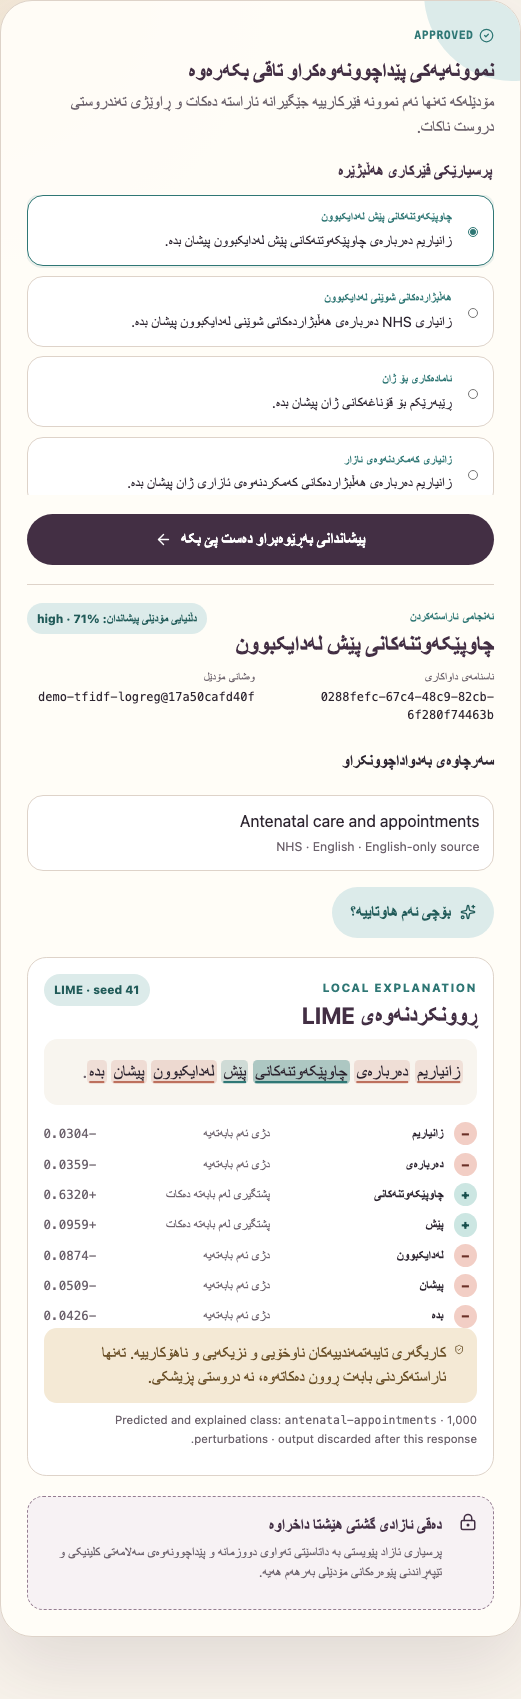
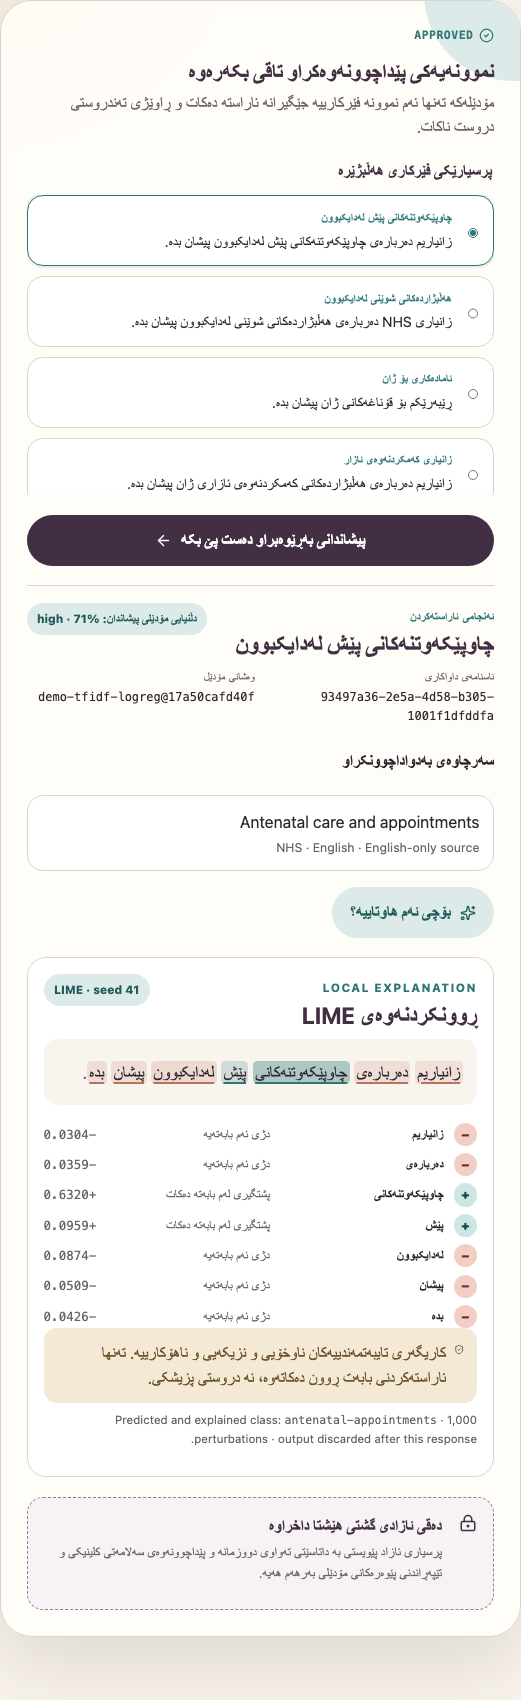
Clarify the Sorani translation boundary

diff --git a/app/resources/js/pages/Navigator.tsx b/app/resources/js/pages/Navigator.tsx
@@ -83,14 +83,22 @@ function AppHeader({ locale, setLocale }: { locale: Locale; setLocale: (value: L
         <header className="site-header"><div className="container nav-row">
             <a className="brand" href="/"><span className="brand-mark"><Route size={19} /></span><span>Explainable Maternity Information Router</span></a>
             <nav className="nav-links" aria-label="Primary navigation">{navigation.map(([href, key]) =>
-                <a className="nav-link" aria-current={path === href ? 'page' : undefined} href={href} key={href}>{copy.nav[key]}</a>,
-            )}<a className="nav-link" href={repo} target="_blank" rel="noreferrer"><GitBranch size={14} />GitHub</a></nav>
+                <a className="nav-link" aria-current={path === href ? 'page' : undefined} href={href} key={href}>{copy.nav[key]}{locale === 'ckb' && href === '/api-docs' ? <span className="language-label">English</span> : null}</a>,
+            )}<a className="nav-link" href={repo} target="_blank" rel="noreferrer"><GitBranch size={14} />GitHub{locale === 'ckb' ? <span className="language-label">English</span> : null}</a></nav>
             <label className="sr-only" htmlFor="language">Interface language</label>
             <select id="language" className="language-select" value={locale} onChange={event => setLocale(event.target.value as Locale)}>
                 <option value="en">English</option><option value="ckb">کوردی سۆرانی</option>
             </select>
         </div></header>
     </>;
+}
+
+function LanguageCoverageNotice({ locale }: { locale: Locale }) {
+    if (locale !== 'ckb') return null;
+    return <div className="container language-coverage" role="note" lang="en" dir="ltr">
+        <Languages size={18} aria-hidden="true" />
+        <div><strong>Sorani language coverage</strong><p>The reviewed demo journey and questions are available in Sorani. The API playground, GitHub repository, Privacy and Accessibility pages, technical identifiers, and external source titles remain in English.</p></div>
+    </div>;
 }
 
 function ExplanationView({ explanation, locale }: { explanation: Explanation; locale: Locale }) {
@@ -206,7 +214,7 @@ function Sources({ locale }: { locale: Locale }) {
     const [sources, setSources] = useState<Source[]>([]);
     const category = new URLSearchParams(window.location.search).get('category');
     useEffect(() => { jsonRequest(`/api/v1/resources?locale=${locale}${category ? `&category=${encodeURIComponent(category)}` : ''}`).then(({ body }) => setSources(body.data ?? [])); }, [category, locale]);
-    return <main className="container"><div className="page-hero"><span className="eyebrow"><BookOpen size={15} />Provenance first</span><h1>Registered source directory</h1><p>Links, language, use status and verification dates are shown without reproducing clinical prose or implying unavailable translations.</p></div><div className="source-grid">{sources.map(source => <article className="source-card" key={source.id}><span className="org">{source.organisation}</span><h3>{source.title}</h3><div className="source-meta"><span className="tag">{source.language}</span>{source.reuse_status && <span className="tag">{source.reuse_status.replaceAll('_', ' ')}</span>}<span className="tag">Checked {source.last_verified}</span></div>{source.fallback_used && <p className="availability-note">{source.availability_note}</p>}<a className="source-link" href={source.url} target="_blank" rel="noreferrer">Open original <ExternalLink size={13} /></a></article>)}</div></main>;
+    return <main className="container" lang="en" dir="ltr"><div className="page-hero"><span className="eyebrow"><BookOpen size={15} />Provenance first</span><h1>Registered source directory</h1><p>Links, language, use status and verification dates are shown without reproducing clinical prose or implying unavailable translations.</p></div><div className="source-grid">{sources.map(source => <article className="source-card" key={source.id}><span className="org">{source.organisation}</span><h3>{source.title}</h3><div className="source-meta"><span className="tag">{source.language}</span>{source.reuse_status && <span className="tag">{source.reuse_status.replaceAll('_', ' ')}</span>}<span className="tag">Checked {source.last_verified}</span></div>{source.fallback_used && <p className="availability-note">{source.availability_note}</p>}<a className="source-link" href={source.url} target="_blank" rel="noreferrer">Open original <ExternalLink size={13} /></a></article>)}</div></main>;
 }
 
 function Evidence() {
@@ -218,7 +226,7 @@ function Evidence() {
         ['MySQL migration', 'app/database/migrations/2026_08_11_000002_add_curated_demo_tables.php'],
         ['Governance validator', 'scripts/validate_resources.py'],
     ];
-    return <main className="container"><div className="page-hero"><span className="eyebrow"><FileCheck2 size={15} />Evidence before claims</span><h1>Technical and governance evidence</h1><p>The curated route demonstrates the architecture. It does not establish general model accuracy, clinical validity or approval.</p></div>
+    return <main className="container" lang="en" dir="ltr"><div className="page-hero"><span className="eyebrow"><FileCheck2 size={15} />Evidence before claims</span><h1>Technical and governance evidence</h1><p>The curated route demonstrates the architecture. It does not establish general model accuracy, clinical validity or approval.</p></div>
         <div className="evidence-grid"><div className="evidence-card"><div className="metric">144</div><div className="metric-label">Checksum-approved demo samples</div></div><div className="evidence-card"><div className="metric">12 + 12</div><div className="metric-label">Passing visible + hidden fixtures</div></div><div className="evidence-card"><div className="metric">&lt;0.1s</div><div className="metric-label">Local-container LIME p95</div></div></div>
         <section className="section two-column"><div className="content-card"><h2>What fixture checks prove</h2><p>All fixed visible and hidden examples return their reviewed category. The local single-user container check measured classification p95 at 3.7 ms and LIME p95 at 84 ms across repeated calls.</p><p className="notice">These are release-fixture and local engineering measurements, not macro-F1, calibration, clinical validity or maternity-domain performance.</p></div><div className="locked-panel"><h3><LockKeyhole size={19} />Production route still locked</h3><p>The 600-row bilingual training set, 120 evaluation fixtures, independent clinical-safety review and XLM-R comparison remain follow-on gates.</p></div></section>
         <section className="section"><div className="section-heading"><div><span className="eyebrow">Inspect the implementation</span><h2>Evidence linked to code</h2></div></div><div className="source-grid">{links.map(([label, path]) => <a className="evidence-code-link" href={`${repo}/blob/main/${path}`} target="_blank" rel="noreferrer" key={path}><Code2 size={18} /><span><strong>{label}</strong><code>{path}</code></span><ExternalLink size={15} /></a>)}</div></section>
@@ -234,7 +242,7 @@ function Evidence() {
 }
 
 function HowItWorks() {
-    return <main className="container"><div className="page-hero"><span className="eyebrow"><Network size={15} />Bounded by design</span><h1>Follow one request end to end</h1><p>The curated and production registries are deliberately separate: a portfolio fixture can never unlock public free text.</p></div><div className="flow-strip"><div><span>1</span><strong>React sends sample ID</strong><p>No browser-supplied question enters the demo contract.</p></div><ArrowRight /><div><span>2</span><strong>Laravel retrieves approved text</strong><p>MySQL provides category, locale and source provenance.</p></div><ArrowRight /><div><span>3</span><strong>FastAPI routes</strong><p>The private curated registry verifies mode and artifact checksum.</p></div><ArrowRight /><div><span>4</span><strong>LIME explains</strong><p>Predicted-class weights return through PHP and are discarded.</p></div></div><section className="section"><div className="two-column"><div className="content-card"><h2>Persisted</h2><ul><li>Random request ID and curated-demo mode</li><li>Governed sample, category and model references</li><li>Confidence band and latency</li></ul></div><div className="content-card"><h2>Never persisted</h2><ul><li>Arbitrary user maternity text</li><li>LIME tokens or occurrence spans</li><li>Clinical symptoms or personal data</li><li>Free-text feedback</li></ul></div></div></section></main>;
+    return <main className="container" lang="en" dir="ltr"><div className="page-hero"><span className="eyebrow"><Network size={15} />Bounded by design</span><h1>Follow one request end to end</h1><p>The curated and production registries are deliberately separate: a portfolio fixture can never unlock public free text.</p></div><div className="flow-strip"><div><span>1</span><strong>React sends sample ID</strong><p>No browser-supplied question enters the demo contract.</p></div><ArrowRight /><div><span>2</span><strong>Laravel retrieves approved text</strong><p>MySQL provides category, locale and source provenance.</p></div><ArrowRight /><div><span>3</span><strong>FastAPI routes</strong><p>The private curated registry verifies mode and artifact checksum.</p></div><ArrowRight /><div><span>4</span><strong>LIME explains</strong><p>Predicted-class weights return through PHP and are discarded.</p></div></div><section className="section"><div className="two-column"><div className="content-card"><h2>Persisted</h2><ul><li>Random request ID and curated-demo mode</li><li>Governed sample, category and model references</li><li>Confidence band and latency</li></ul></div><div className="content-card"><h2>Never persisted</h2><ul><li>Arbitrary user maternity text</li><li>LIME tokens or occurrence spans</li><li>Clinical symptoms or personal data</li><li>Free-text feedback</li></ul></div></div></section></main>;
 }
 
 const graphQueries = {
@@ -276,7 +284,7 @@ function ApiDocs() {
     };
     const copySnippet = async () => { await navigator.clipboard.writeText(snippets[snippet]); setCopied(true); setTimeout(() => setCopied(false), 1200); };
 
-    return <main className="container"><div className="page-hero"><span className="eyebrow"><Braces size={15} />Live engineering exhibit</span><h1>Execute REST and GraphQL here</h1><p>Every control below calls the running application. Inspect the request, status, timing and formatted response without installing an API client.</p></div>
+    return <main className="container" lang="en" dir="ltr"><div className="page-hero"><span className="eyebrow"><Braces size={15} />Live engineering exhibit</span><h1>Execute REST and GraphQL here</h1><p>Every control below calls the running application. Inspect the request, status, timing and formatted response without installing an API client.</p></div>
         <div className="api-layout"><aside className="api-controls"><h2>REST</h2>{[
             ['health', 'GET', '/api/v1/health', undefined],
             ['resources', 'GET', '/api/v1/resources?category=antenatal-appointments&locale=ckb', undefined],
@@ -293,11 +301,12 @@ function ApiDocs() {
 
 function PolicyPage({ type }: { type: 'privacy' | 'accessibility' }) {
     const privacy = type === 'privacy';
-    return <main className="container"><div className="page-hero"><span className="eyebrow">{privacy ? <ShieldCheck size={15} /> : <HeartHandshake size={15} />}{privacy ? 'Data minimisation' : 'Inclusive by default'}</span><h1>{privacy ? 'Privacy and intended use' : 'Accessibility statement'}</h1><p>{privacy ? 'The fixed demo stores only derived telemetry and a reference to governed application content.' : 'The interface targets WCAG 2.2 AA and includes explicit testing for RTL and bidirectional text.'}</p></div><div className="two-column">{privacy ? <><div className="content-card"><h2>What may be stored</h2><ul><li>Random request ID and curated-demo mode</li><li>Governed sample, category and model references</li><li>Confidence band, locale and latency</li><li>Fixed-choice helpfulness feedback</li></ul></div><div className="content-card"><h2>What is not stored</h2><ul><li>Arbitrary user questions or LIME tokens</li><li>Names, contact details or symptoms</li><li>Patient records or special-category datasets</li><li>Free-text feedback</li></ul></div></> : <><div className="content-card"><h2>Implemented</h2><ul><li>Keyboard-visible focus and semantic controls</li><li>Reduced-motion support and responsive zoom</li><li>Text plus symbols for LIME direction</li><li>Full-page RTL and original-order Sorani spans</li></ul></div><div className="content-card"><h2>Release gate</h2><p>Automated checks are not certification. Manual keyboard, zoom, contrast, screen-reader and Sorani bidirectional-text checks are required before public indexing.</p></div></>}</div></main>;
+    return <main className="container" lang="en" dir="ltr"><div className="page-hero"><span className="eyebrow">{privacy ? <ShieldCheck size={15} /> : <HeartHandshake size={15} />}{privacy ? 'Data minimisation' : 'Inclusive by default'}</span><h1>{privacy ? 'Privacy and intended use' : 'Accessibility statement'}</h1><p>{privacy ? 'The fixed demo stores only derived telemetry and a reference to governed application content.' : 'The interface targets WCAG 2.2 AA and includes explicit testing for RTL and bidirectional text.'}</p></div><div className="two-column">{privacy ? <><div className="content-card"><h2>What may be stored</h2><ul><li>Random request ID and curated-demo mode</li><li>Governed sample, category and model references</li><li>Confidence band, locale and latency</li><li>Fixed-choice helpfulness feedback</li></ul></div><div className="content-card"><h2>What is not stored</h2><ul><li>Arbitrary user questions or LIME tokens</li><li>Names, contact details or symptoms</li><li>Patient records or special-category datasets</li><li>Free-text feedback</li></ul></div></> : <><div className="content-card"><h2>Implemented</h2><ul><li>Keyboard-visible focus and semantic controls</li><li>Reduced-motion support and responsive zoom</li><li>Text plus symbols for LIME direction</li><li>Full-page RTL and original-order Sorani spans</li></ul></div><div className="content-card"><h2>Release gate</h2><p>Automated checks are not certification. Manual keyboard, zoom, contrast, screen-reader and Sorani bidirectional-text checks are required before public indexing.</p></div></>}</div></main>;
 }
 
-function Footer() {
-    return <footer className="site-footer"><div className="container footer-row"><div><strong>Explainable Maternity Information Router</strong><br />Independent portfolio demonstration by Karlo Nahro.<br />Not affiliated with or endorsed by the NHS.</div><div className="footer-links"><a href="/privacy">Privacy</a><a href="/accessibility">Accessibility</a><a href={repo} target="_blank" rel="noreferrer"><GitBranch size={14} />GitHub repository</a></div></div></footer>;
+function Footer({ locale }: { locale: Locale }) {
+    const english = locale === 'ckb' ? ' · English' : '';
+    return <footer className="site-footer"><div className="container footer-row"><div><strong>Explainable Maternity Information Router</strong><br />Independent portfolio demonstration by Karlo Nahro.<br />Not affiliated with or endorsed by the NHS.</div><div className="footer-links"><a href="/privacy">Privacy{english}</a><a href="/accessibility">Accessibility{english}</a><a href={repo} target="_blank" rel="noreferrer"><GitBranch size={14} />GitHub repository{english}</a></div></div></footer>;
 }
 
 export default function Navigator() {
@@ -321,5 +330,5 @@ export default function Navigator() {
                     : path === '/privacy' ? <PolicyPage type="privacy" />
                         : path === '/accessibility' ? <PolicyPage type="accessibility" />
                             : <Home locale={locale} online={online} />, [path, locale, online]);
-    return <div className="app-shell" dir={messages[locale].direction}><Head title="Explainable Maternity Information Router" /><AppHeader locale={locale} setLocale={setLocale} />{content}<Footer /></div>;
+    return <div className="app-shell" dir={messages[locale].direction}><Head title="Explainable Maternity Information Router" /><AppHeader locale={locale} setLocale={setLocale} /><LanguageCoverageNotice locale={locale} />{content}<Footer locale={locale} /></div>;
 }

diff --git a/app/resources/css/app.css b/app/resources/css/app.css
@@ -36,10 +36,15 @@ button:focus-visible, a:focus-visible, textarea:focus-visible, select:focus-visi
 .nav-links { margin-left: auto; display: flex; gap: .25rem; align-items: center; }
 .nav-link { padding: .58rem .76rem; border-radius: 999px; text-decoration: none; font-size: .92rem; color: var(--muted); display: inline-flex; align-items: center; gap: .35rem; }
 .nav-link:hover, .nav-link[aria-current="page"] { background: white; color: var(--aubergine); }
+.language-label { border-radius: 999px; padding: .16rem .36rem; background: #eee6de; color: var(--muted); font-size: .62rem; font-weight: 800; text-transform: uppercase; letter-spacing: .04em; }
 .language-select { border: 1px solid var(--line); border-radius: 999px; background: var(--surface); padding: .55rem .85rem; color: var(--ink); }
 .status-strip { background: var(--aubergine); color: #fff; font-size: .88rem; }
 .status-strip .container { min-height: 42px; display: flex; align-items: center; justify-content: center; gap: .5rem; text-align: center; }
 .status-dot { width: .55rem; height: .55rem; border-radius: 50%; background: #f5c579; box-shadow: 0 0 0 4px rgba(245,197,121,.16); }
+.language-coverage { display: grid; grid-template-columns: auto 1fr; gap: .7rem; align-items: start; margin-top: 1rem; padding: .85rem 1rem; border: 1px solid #d8c9ba; border-radius: 1rem; background: #f7f2e9; color: var(--muted); font-size: .82rem; }
+.language-coverage svg { color: var(--teal); margin-top: .1rem; }
+.language-coverage strong { color: var(--aubergine); }
+.language-coverage p { margin: .2rem 0 0; }
 .hero { padding: 5.5rem 0 4rem; display: grid; grid-template-columns: 1.05fr .95fr; gap: 4rem; align-items: center; }
 .eyebrow { display: inline-flex; align-items: center; gap: .45rem; color: var(--teal); font-weight: 800; text-transform: uppercase; letter-spacing: .12em; font-size: .73rem; }
 h1, h2, h3 { margin-top: 0; color: var(--aubergine); line-height: 1.08; }

diff --git a/app/tests/Browser/recruiter-journey.spec.ts b/app/tests/Browser/recruiter-journey.spec.ts
@@ -26,6 +26,12 @@ test('English recruiter journey completes the approved demo', async ({ page }) =
 
 test('Sorani recruiter journey uses full RTL and the same governed boundary', async ({ page }) => {
     await runReleasedJourney(page, 'ckb');
+    await expect(page.getByText('Sorani language coverage', { exact: true })).toBeVisible();
+    await expect(page.getByRole('navigation').getByRole('link', { name: /API.*English/ })).toBeVisible();
+    await expect(page.getByRole('navigation').getByRole('link', { name: /GitHub.*English/ })).toBeVisible();
+    await page.getByRole('navigation').getByRole('link', { name: /API.*English/ }).click();
+    await expect(page.locator('main')).toHaveAttribute('lang', 'en');
+    await expect(page.locator('main')).toHaveAttribute('dir', 'ltr');
 });
 
 test('the API exhibit executes live REST and GraphQL calls', async ({ page }) => {

diff --git a/README.md b/README.md
@@ -29,6 +29,10 @@ Within this repository a recruiter can inspect the complete PHP controllers, MyS
 
 If the signed content, model artifact or release sign-off drifts, the same journey releases no sample or model. That is intentional fail-closed behavior, not a simulated result.
 
+### Sorani language scope
+
+Sorani localisation covers the reviewed demo journey, fixed questions, category and result text, LIME interpretation and full-page RTL presentation. The engineering API playground, GitHub documentation, Privacy and Accessibility pages, technical identifiers and external source titles remain in English. Sorani mode labels those destinations as English and displays this boundary explicitly; it does not imply full translation parity.
+
 ## Product walkthrough
 
 Click any image to inspect it at full size.
